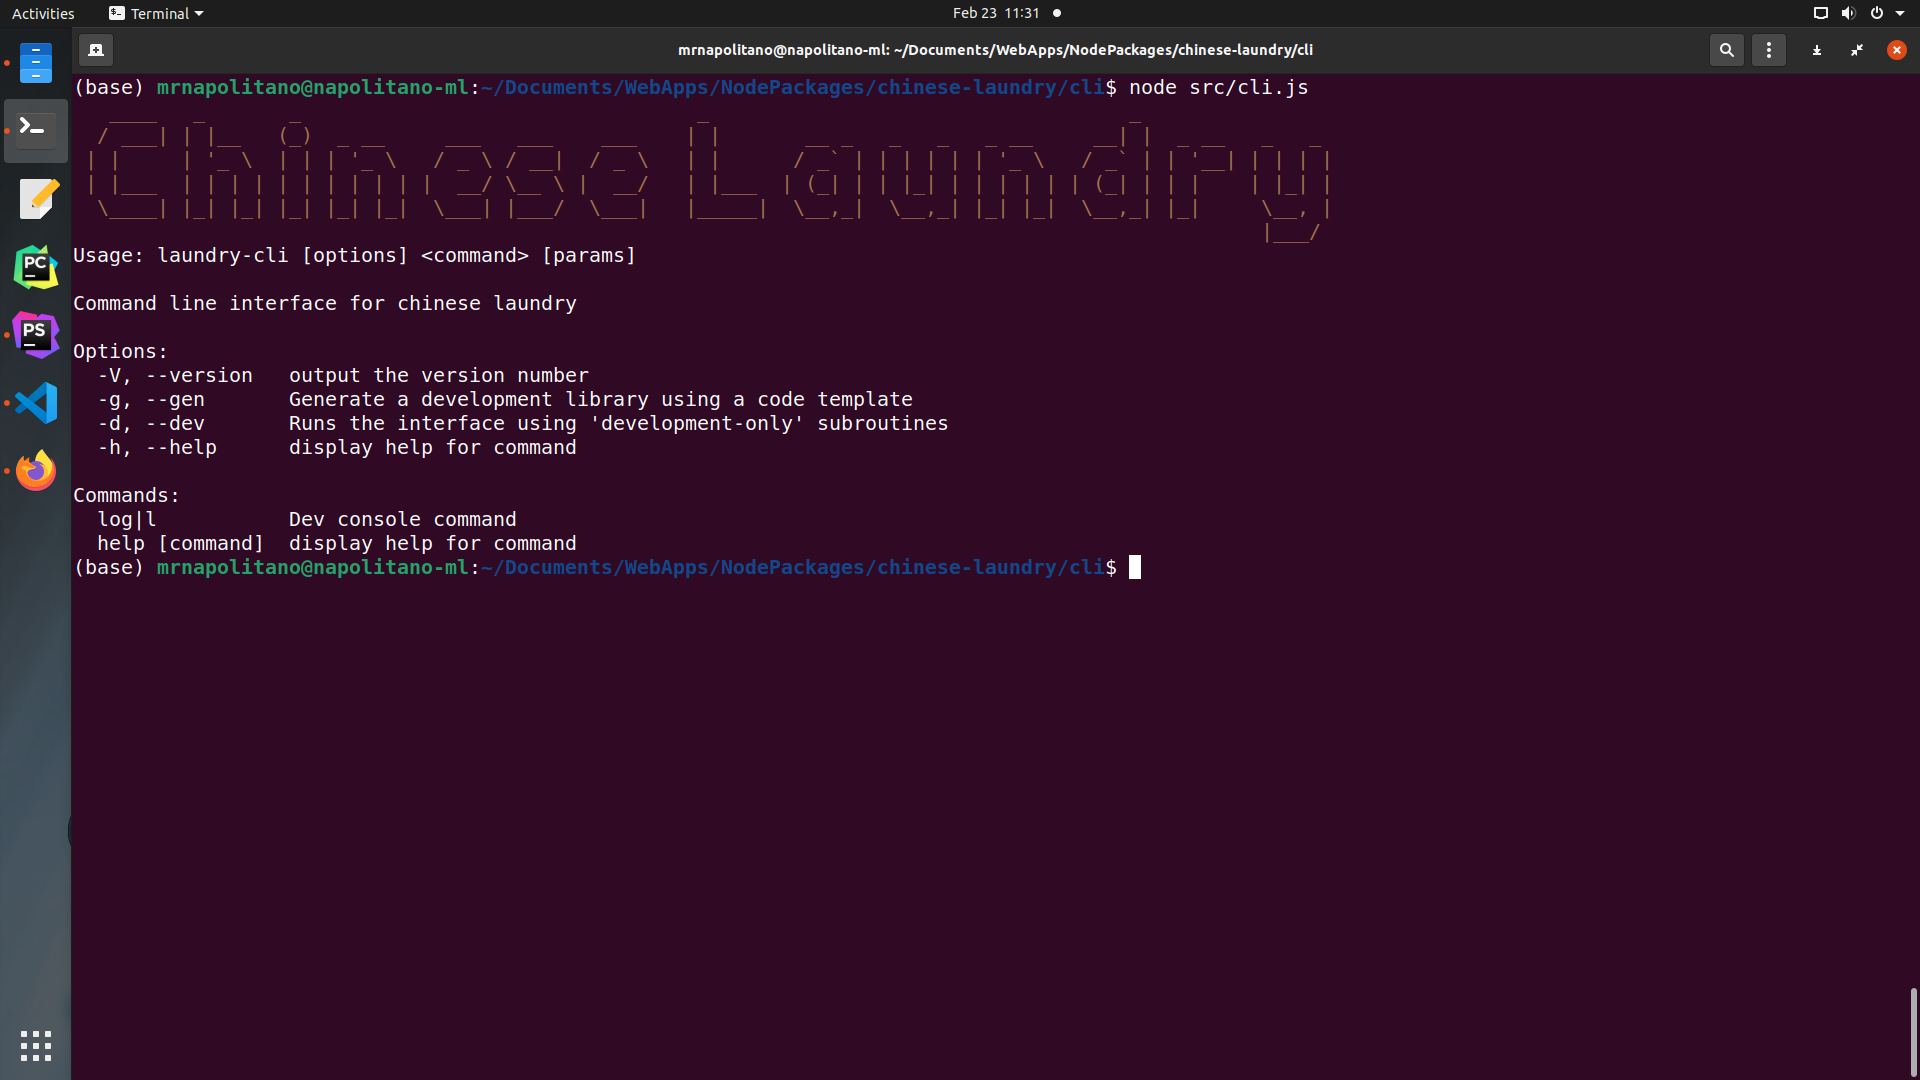
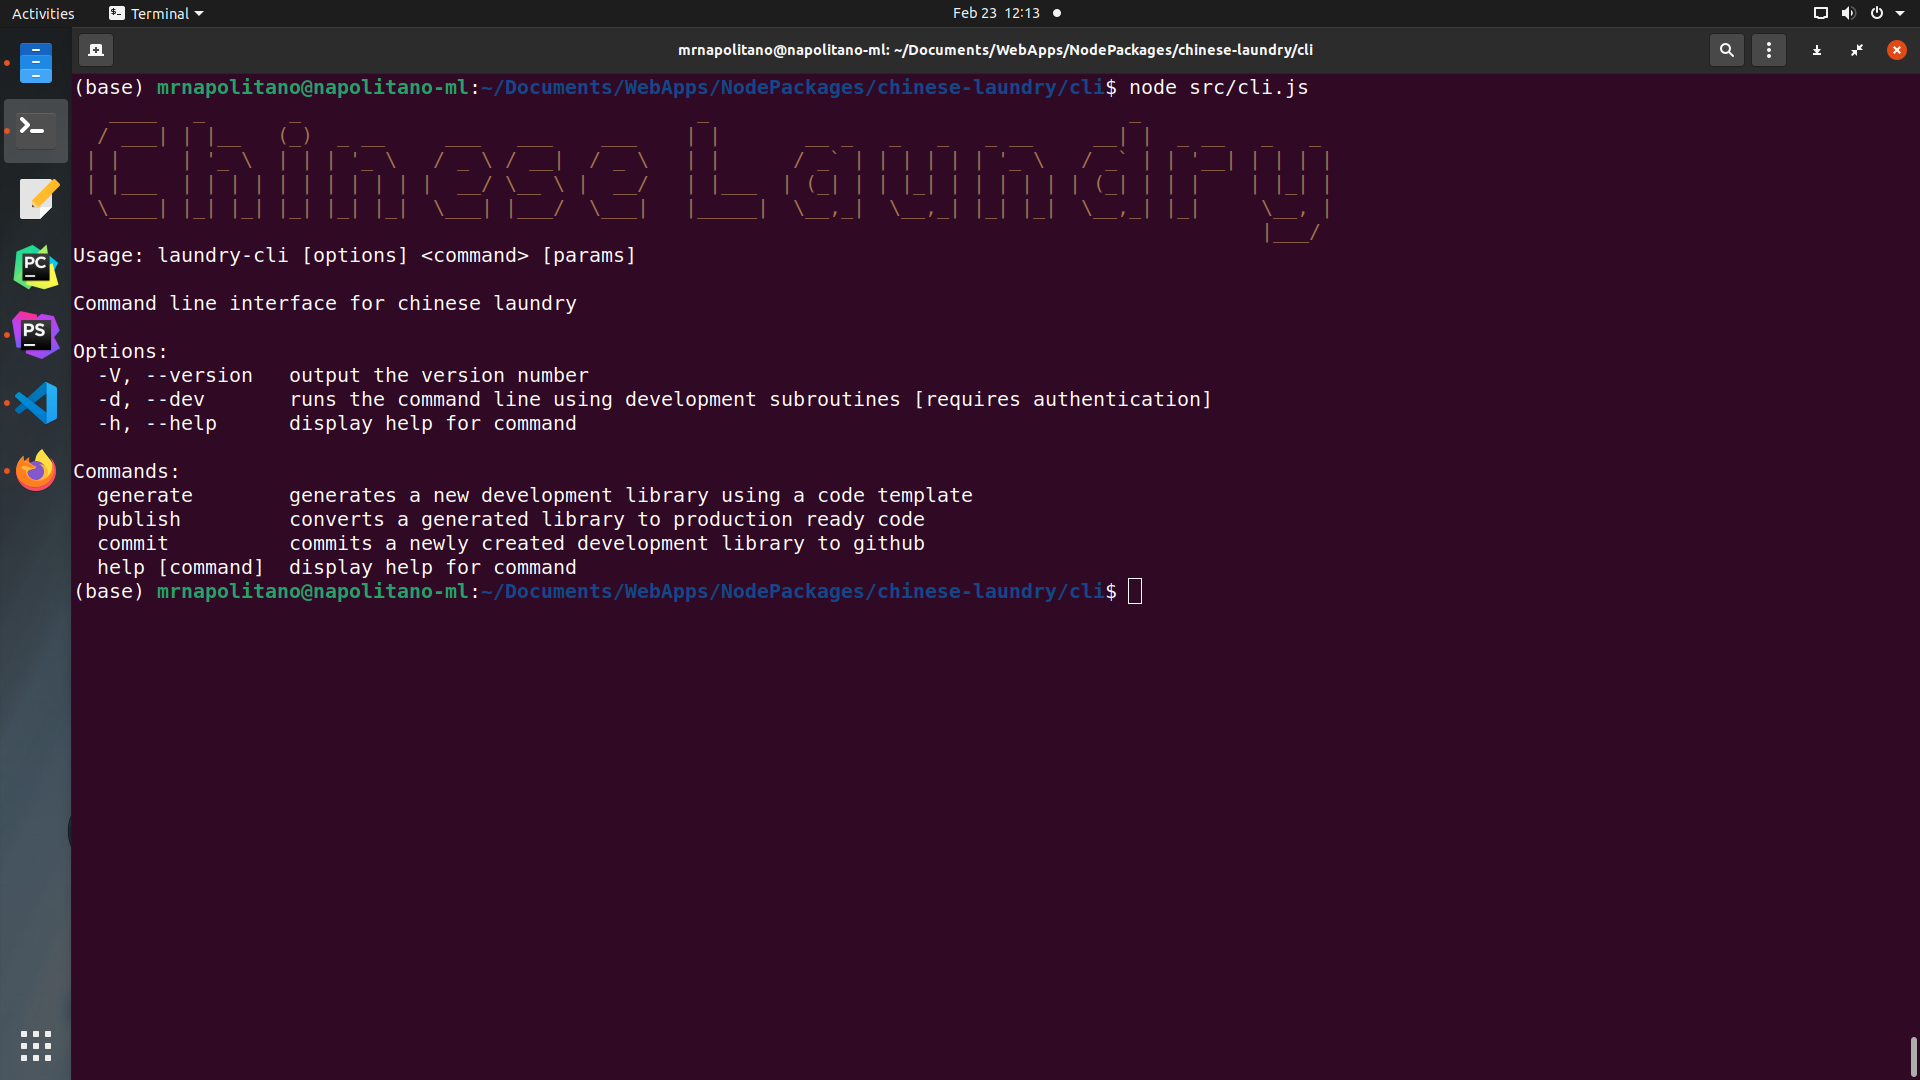
Fifth commit

Changed region(s): [[0.0312, 0.4278, 0.5938, 0.5806], [0.1562, 0.3667, 0.625, 0.4278], [0.0938, 0.3667, 0.125, 0.4278]]

diff --git a/src/cli.js b/src/cli.js
@@ -20,17 +20,32 @@ program
     .usage('[options] <command> [params]')
 
 // Options
-program
-    .option('-g, --gen', 'Generate a development library using a code template')
-    .option('-d, --dev', "Runs the interface using 'development-only' subroutines")
+program.option('-d, --dev', 'runs the command line using development subroutines [requires authentication]')
+    // .option('-s, --sup', 'runs the command line using administrative subroutines [requires authentication]')
 
 // Commands
 program
-    .command('log')
-    .alias('l')
-    .description('Dev console command')
+    // Code generator
+    .command('generate')
+    .description('generates a new development library using a code template')
     .action(() => {
-        console.log('I worked!')
+        console.log('It worked, the generator subroutine was called successfully!')
+    })
+
+program
+    // Code generator
+    .command('publish')
+    .description('converts a generated library to production ready code')
+    .action(() => {
+        console.log('It worked, the publishing subroutine was called successfully!')
+    })
+
+program
+    // Code generator
+    .command('commit')
+    .description('commits a newly created development library to github')
+    .action(() => {
+        console.log('It worked, the code commit subroutine was called successfully!')
     })
 
 // Parse
